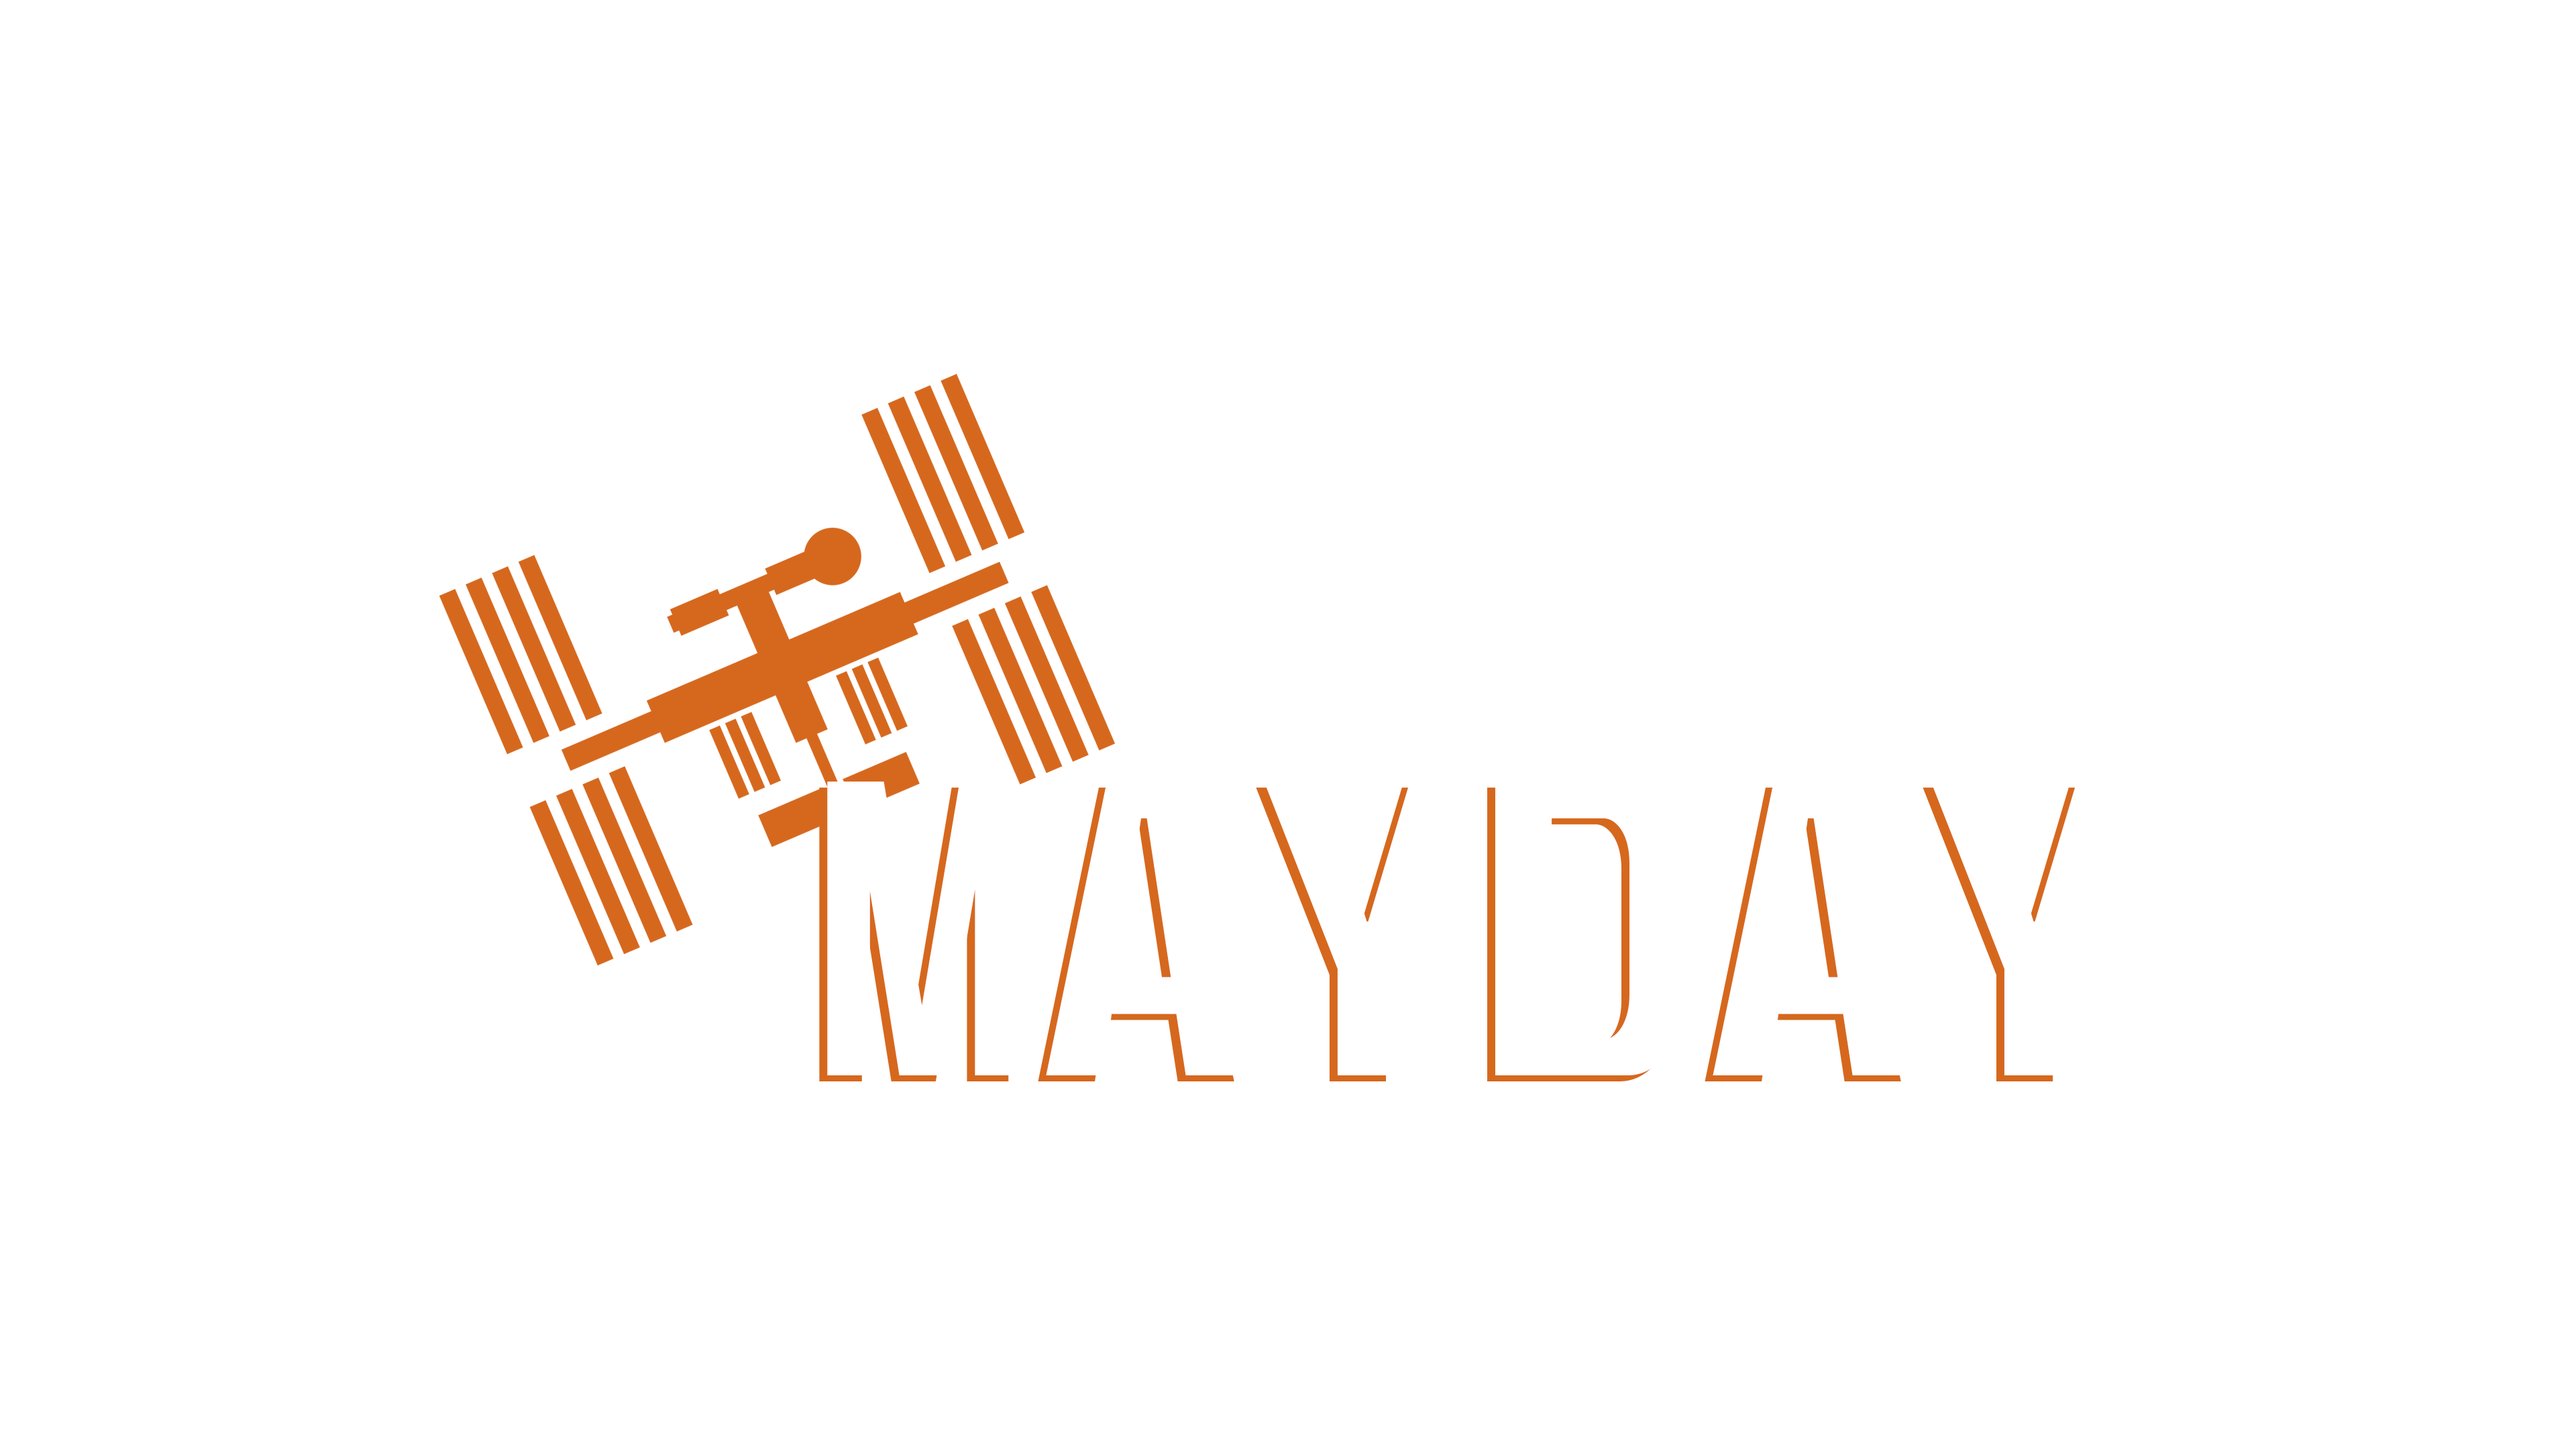
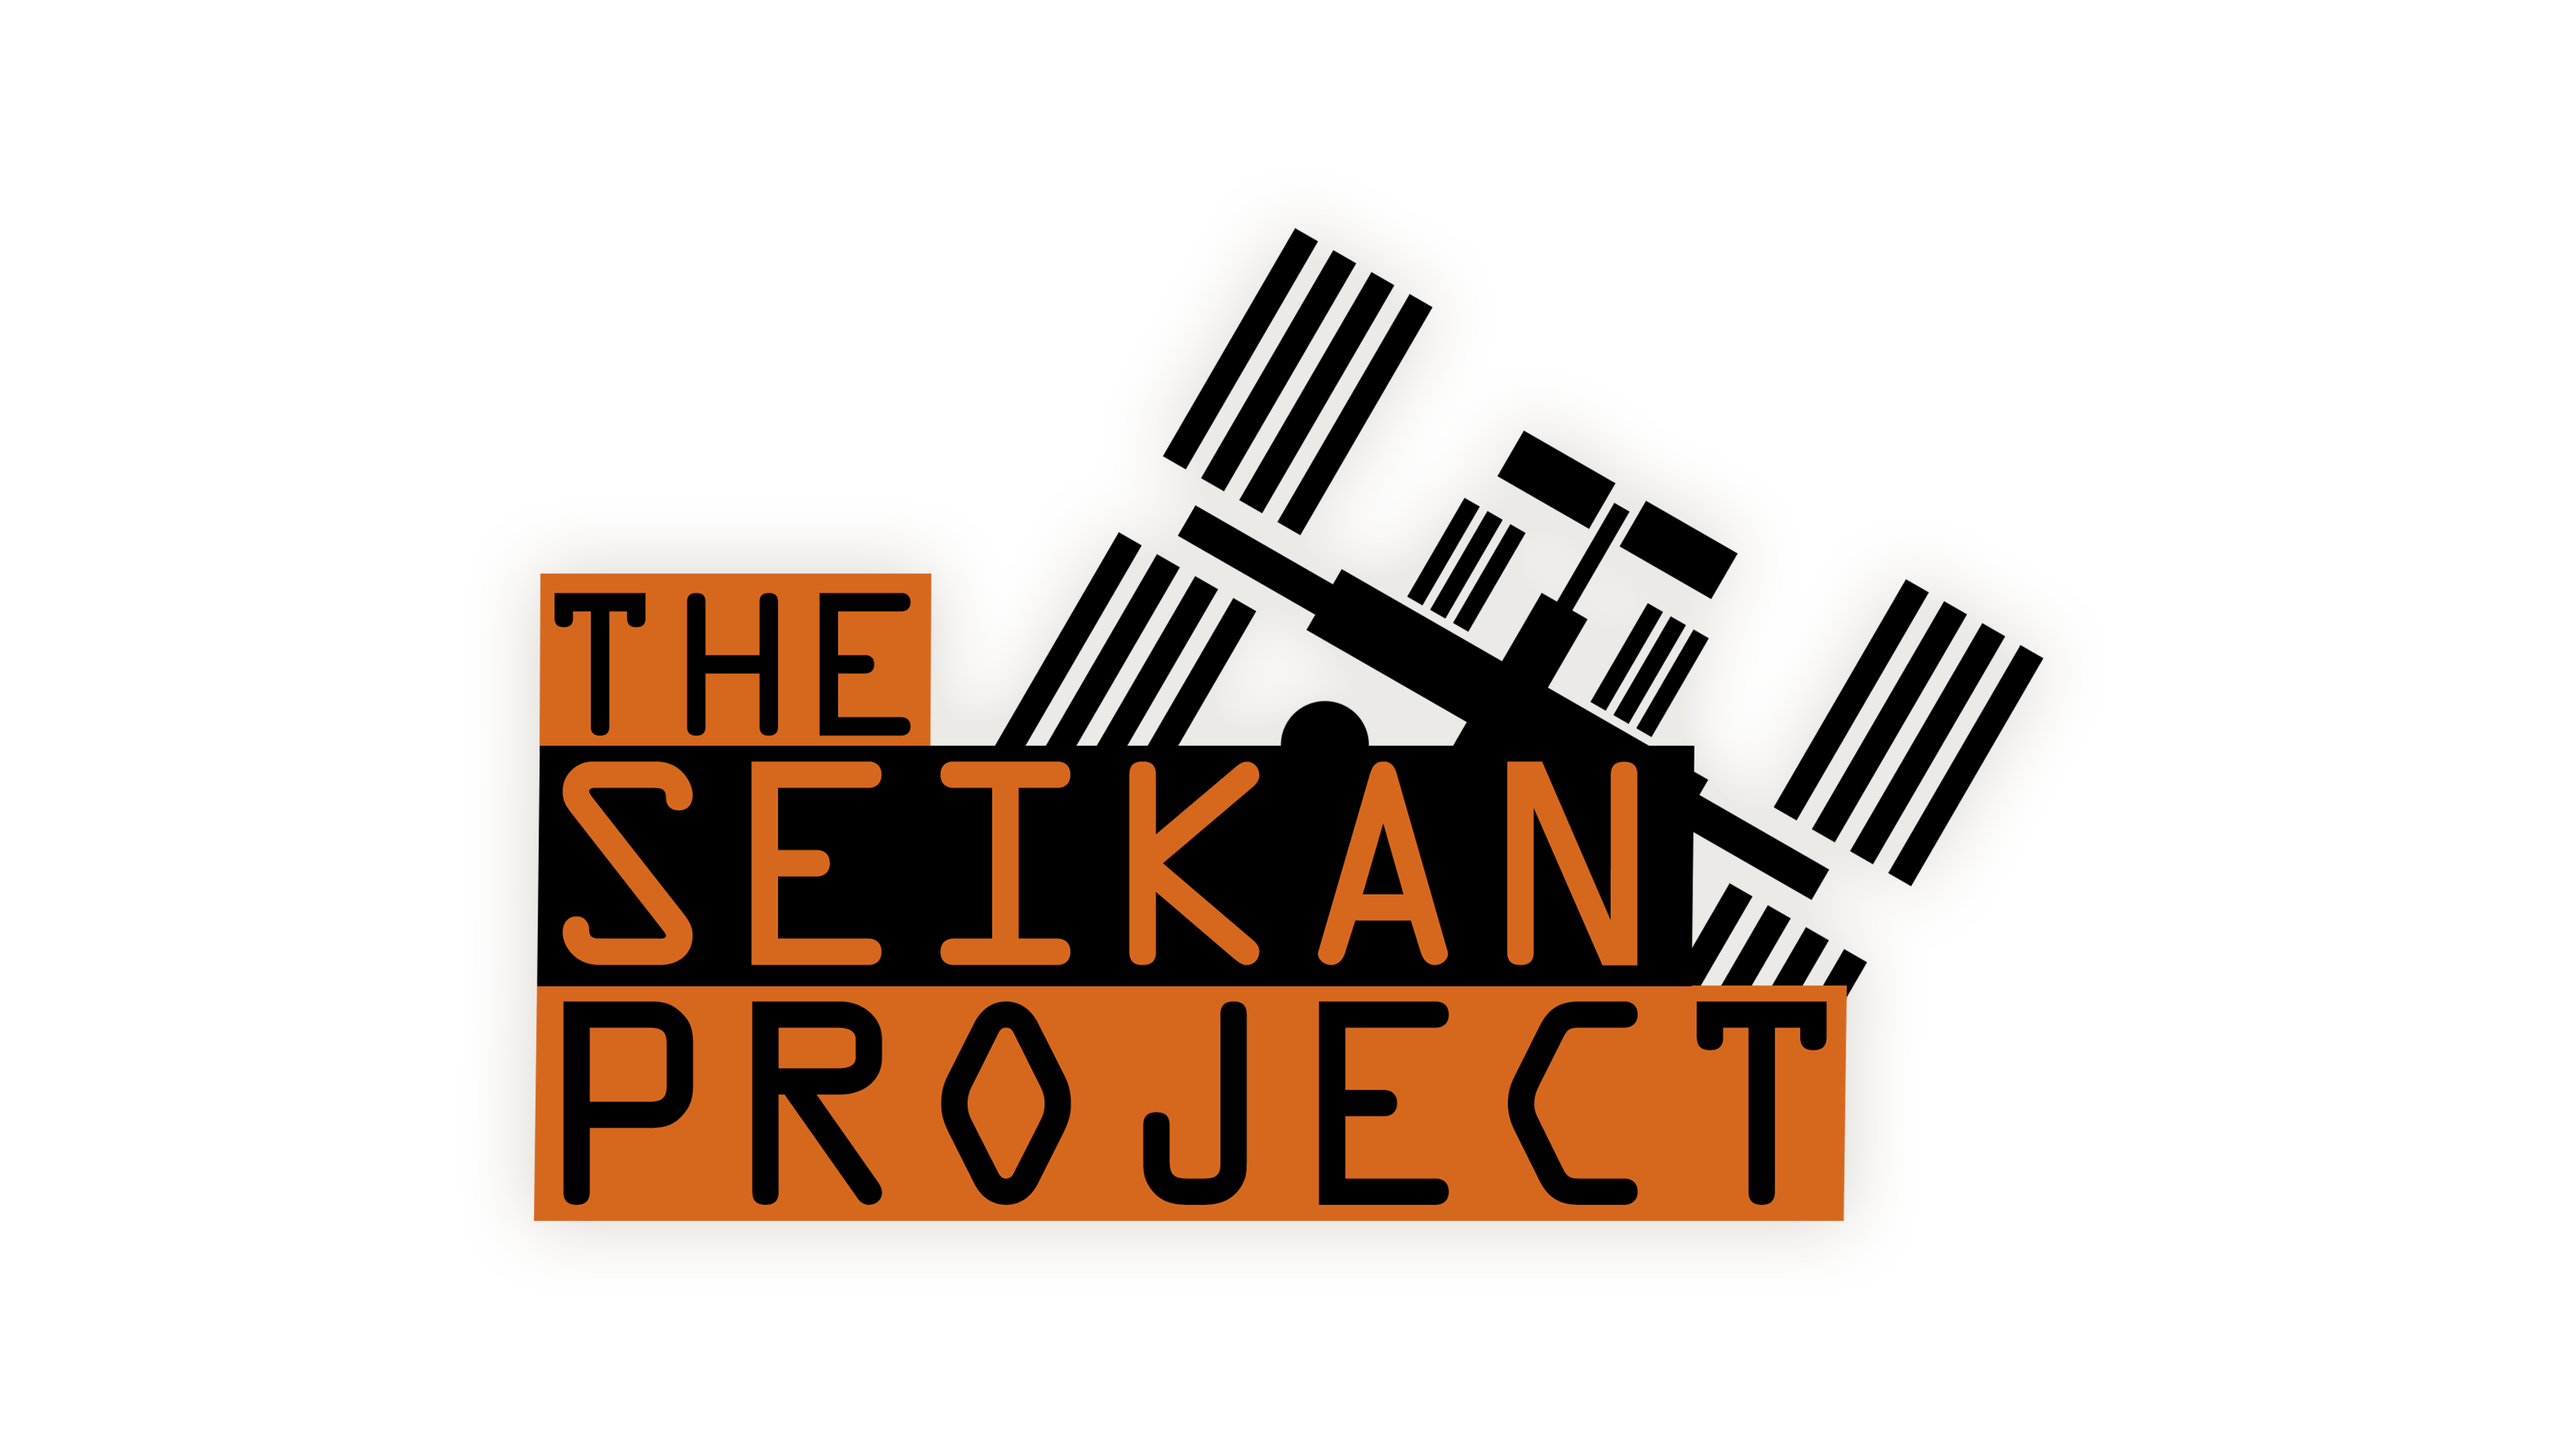
g

Changed region(s): [[0.1562, 0.1551, 0.8125, 0.8685], [0.75, 0.7134, 0.7812, 0.7444]]

diff --git a/other/monoxide/index.html b/other/monoxide/index.html
@@ -36,9 +36,9 @@
 		<h2 id="header-text">Scroll down for more info!</h2>
 	</div>
 	<div class="container">
-		<p class="large-head">What is MayDay?</p>
+		<p class="large-head">What is The Seikan Project?</p>
 		<hr />
-		<p>MayDay is a psychological horror game made in the Unity engine. You play as Gary Croft, a maintenance worker on the Seikan 4 research space station orbiting between Venus and Mercury around the sun that studies the effects of a strange type of radiation discovered in space.</p><br />
+		<p>The Seikan Project is a psychological horror game made in the Unity engine. You play as Gary Croft, a maintenance worker on the Seikan 4 research space station orbiting between Venus and Mercury around the sun that studies the effects of a strange type of radiation discovered in space.</p><br />
 		<p>You're quickly notified of an imminent asteroid impact but without enough fuel to return to Earth you make your way to Seikan 5 instead to seek help from the other researchers onboard the station, however, once you arrive, everything isn't as it seems.</p><br />
 		<p>Follow Gary as he blurs the line between what's reality and fiction.</p>
 		
